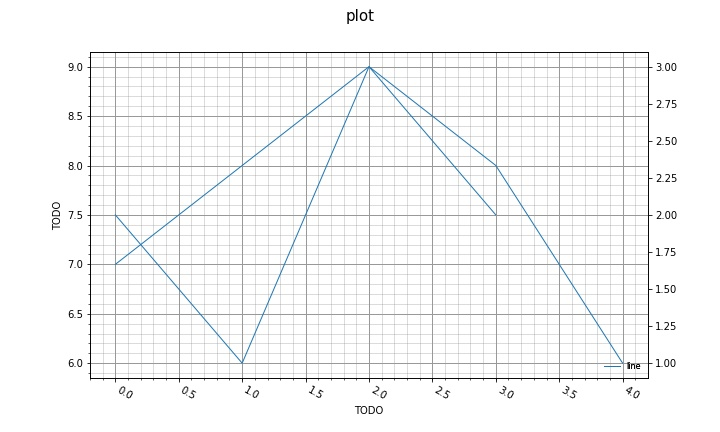
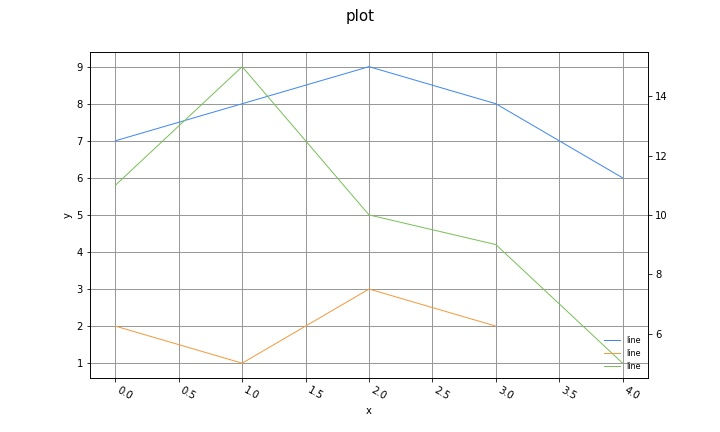
DOCS: update plot examples

diff --git a/README.md b/README.md
@@ -25,30 +25,42 @@ TODO
 
 ## Simple Introduction for creating plots
 
-The following has already been implemented.
-
 Creating a lineplot is as simple as:
+
+```py
+a = lineplot([7,8,9,8,6])
+a.plot()
+```
+
+![image}](imgs/single_plot.jpg)
+
+
+## Combining Plots using Plot Arithmetic
+
+You can use the `+` and `-` operators to overlay plots on top of each other.
+
+- `+` makes the plots share the same y axis
+- `-` makes the plots on the right hand side of the operator use its own independent y axis
+
+In the following example, three plots are created, overlayed on top of each other, and all sharing the same y axis.
 
 ```py
 from plot import lineplot
 a = lineplot([7,8,9,8,6])
-b = lineplot([9,8,6,9])
+b = lineplot([2,1,3,2])
+c= lineplot([11,15,10,9,5])
 
-# overlay the individual plots (sharing the same y axis)
-overlay = a+b
-
-# plots the overlayed plot using the default rendering engine (matplotlib)
-overlay.compile()
+overlay = a+b+c
+overlay.plot()
 ```
 
 ![image](imgs/overlay_example.jpg)
 
-```py
-# overlay plots, with independent y axes
-overlay = a-b
+In the following example, the three plots are overlayed but the final plot uses its own independent y axis.
 
-# plots the overlayed plot using the default rendering engine (matplotlib)
-overlay.compile()
+```py
+overlay = a+b-c
+overlay.plot()
 ```
 
 ![image](imgs/overlay_example_independent_y.jpg)
